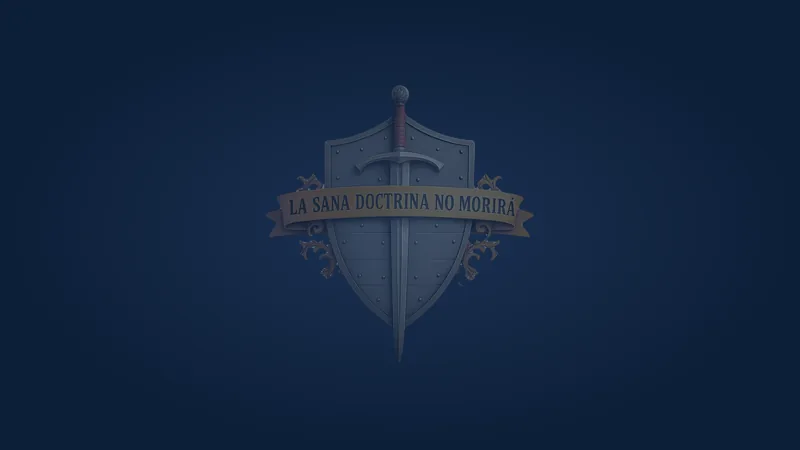
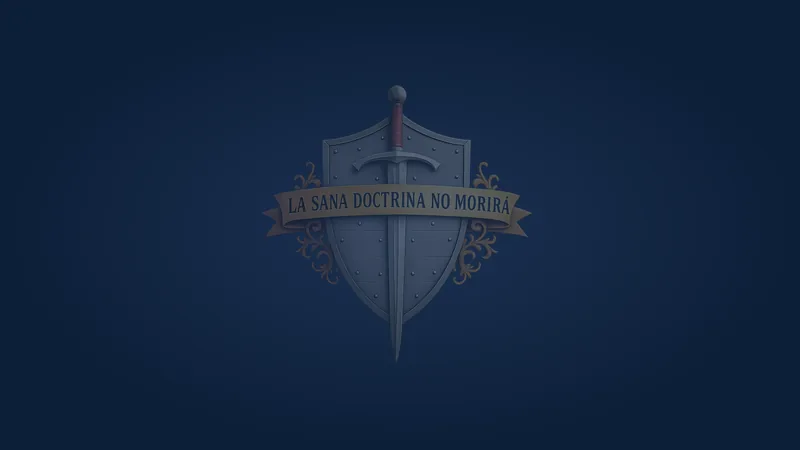
Sustituir el logotipo por la versión nueva
El archivo subido a la raíz del repositorio como "la sana doctrina no
morira 1.png" pasa a ser assets/img/logo-original.png y de él se
regeneran las cinco medidas derivadas.

Comprobado antes de instalarlo: el PNG es RGBA con alfa de 0 a 255 y el
fondo es realmente transparente; el 30 % de píxeles opacos corresponde al
propio escudo, no a un fondo recortado.

- logo.webp (124 KB) y logo.png para la portada, 674 x 680
- sello.webp y sello.png para el encabezado, 159 x 160
- favicon.png de 64 x 64, recorte cuadrado centrado en el escudo
- poster-video.webp/jpg regenerado con el emblema nuevo
- Las medidas declaradas en el HTML se ajustan a la nueva proporción y la
  invalidación de caché sube a ?v=3

Verificado: se usa logo.webp en ambos temas, desvío del eje de 0,0 px
respecto al H1, esquinas del sello transparentes sobre crema y sobre azul
marino, el hero sigue cabiendo sobre el pliegue en 1440x900 y 390x844, y
no hay errores ni desbordamiento en las diez páginas.

diff --git a/pastores.html b/pastores.html
@@ -22,9 +22,9 @@
 <meta name="twitter:description" content="Pastores defensores de la sana doctrina: siervos de Dios que se levantaron como firmes defensores de la verdad inmutable del Evangelio.">
 <meta name="twitter:image" content="https://ivanngarcia81.github.io/La-sana-doctrina-no-morir-/assets/img/logo.png">
 
-<link rel="stylesheet" href="assets/css/estilo.css?v=2">
-<link rel="icon" href="assets/img/favicon.png?v=2" type="image/png">
-<link rel="apple-touch-icon" href="assets/img/sello.png?v=2">
+<link rel="stylesheet" href="assets/css/estilo.css?v=3">
+<link rel="icon" href="assets/img/favicon.png?v=3" type="image/png">
+<link rel="apple-touch-icon" href="assets/img/sello.png?v=3">
 </head>
 <body>
 <a class="saltar" href="#contenido">Saltar al contenido</a>
@@ -33,8 +33,8 @@
   <div class="contenedor encabezado__fila">
     <a class="marca" href="index.html">
       <picture class="marca__sello">
-        <source srcset="assets/img/sello.webp?v=2" type="image/webp">
-        <img src="assets/img/sello.png?v=2" alt="" width="154" height="160">
+        <source srcset="assets/img/sello.webp?v=3" type="image/webp">
+        <img src="assets/img/sello.png?v=3" alt="" width="159" height="160">
       </picture>
       <span class="marca__texto">
         <span class="marca__titulo">La Sana Doctrina</span>
@@ -140,8 +140,8 @@
         <figure class="video">
           <div class="video__marco">
             <picture>
-              <source srcset="assets/img/poster-video.webp?v=2" type="image/webp">
-              <img class="video__poster" src="assets/img/poster-video.jpg?v=2" alt=""
+              <source srcset="assets/img/poster-video.webp?v=3" type="image/webp">
+              <img class="video__poster" src="assets/img/poster-video.jpg?v=3" alt=""
                    width="800" height="450" loading="lazy" decoding="async">
             </picture>
             <span class="video__play" aria-hidden="true"></span>
@@ -151,8 +151,8 @@
         <figure class="video">
           <div class="video__marco">
             <picture>
-              <source srcset="assets/img/poster-video.webp?v=2" type="image/webp">
-              <img class="video__poster" src="assets/img/poster-video.jpg?v=2" alt=""
+              <source srcset="assets/img/poster-video.webp?v=3" type="image/webp">
+              <img class="video__poster" src="assets/img/poster-video.jpg?v=3" alt=""
                    width="800" height="450" loading="lazy" decoding="async">
             </picture>
             <span class="video__play" aria-hidden="true"></span>
@@ -162,8 +162,8 @@
         <figure class="video">
           <div class="video__marco">
             <picture>
-              <source srcset="assets/img/poster-video.webp?v=2" type="image/webp">
-              <img class="video__poster" src="assets/img/poster-video.jpg?v=2" alt=""
+              <source srcset="assets/img/poster-video.webp?v=3" type="image/webp">
+              <img class="video__poster" src="assets/img/poster-video.jpg?v=3" alt=""
                    width="800" height="450" loading="lazy" decoding="async">
             </picture>
             <span class="video__play" aria-hidden="true"></span>
@@ -173,8 +173,8 @@
         <figure class="video">
           <div class="video__marco">
             <picture>
-              <source srcset="assets/img/poster-video.webp?v=2" type="image/webp">
-              <img class="video__poster" src="assets/img/poster-video.jpg?v=2" alt=""
+              <source srcset="assets/img/poster-video.webp?v=3" type="image/webp">
+              <img class="video__poster" src="assets/img/poster-video.jpg?v=3" alt=""
                    width="800" height="450" loading="lazy" decoding="async">
             </picture>
             <span class="video__play" aria-hidden="true"></span>
@@ -184,8 +184,8 @@
         <figure class="video">
           <div class="video__marco">
             <picture>
-              <source srcset="assets/img/poster-video.webp?v=2" type="image/webp">
-              <img class="video__poster" src="assets/img/poster-video.jpg?v=2" alt=""
+              <source srcset="assets/img/poster-video.webp?v=3" type="image/webp">
+              <img class="video__poster" src="assets/img/poster-video.jpg?v=3" alt=""
                    width="800" height="450" loading="lazy" decoding="async">
             </picture>
             <span class="video__play" aria-hidden="true"></span>
@@ -248,6 +248,6 @@
   </div>
 </footer>
 
-<script src="assets/js/main.js?v=2"></script>
+<script src="assets/js/main.js?v=3"></script>
 </body>
 </html>

diff --git a/index.html b/index.html
@@ -22,9 +22,9 @@
 <meta name="twitter:description" content="Un llamado a permanecer firmes en la verdad: proyecto que une a las iglesias conservadoras comprometidas con la verdad bíblica frente a la apostasía.">
 <meta name="twitter:image" content="https://ivanngarcia81.github.io/La-sana-doctrina-no-morir-/assets/img/logo.png">
 
-<link rel="stylesheet" href="assets/css/estilo.css?v=2">
-<link rel="icon" href="assets/img/favicon.png?v=2" type="image/png">
-<link rel="apple-touch-icon" href="assets/img/sello.png?v=2">
+<link rel="stylesheet" href="assets/css/estilo.css?v=3">
+<link rel="icon" href="assets/img/favicon.png?v=3" type="image/png">
+<link rel="apple-touch-icon" href="assets/img/sello.png?v=3">
 </head>
 <body>
 <a class="saltar" href="#contenido">Saltar al contenido</a>
@@ -33,8 +33,8 @@
   <div class="contenedor encabezado__fila">
     <a class="marca" href="index.html">
       <picture class="marca__sello">
-        <source srcset="assets/img/sello.webp?v=2" type="image/webp">
-        <img src="assets/img/sello.png?v=2" alt="" width="154" height="160">
+        <source srcset="assets/img/sello.webp?v=3" type="image/webp">
+        <img src="assets/img/sello.png?v=3" alt="" width="159" height="160">
       </picture>
       <span class="marca__texto">
         <span class="marca__titulo">La Sana Doctrina</span>
@@ -103,8 +103,8 @@
       <!-- Logotipo oficial. Para cambiarlo basta con reemplazar los archivos
            assets/img/logo.webp y assets/img/logo.png. -->
       <picture class="portada__emblema">
-        <source srcset="assets/img/logo.webp?v=2" type="image/webp">
-        <img src="assets/img/logo.png?v=2" width="654" height="680" fetchpriority="high"
+        <source srcset="assets/img/logo.webp?v=3" type="image/webp">
+        <img src="assets/img/logo.png?v=3" width="674" height="680" fetchpriority="high"
              alt="Emblema: escudo y espada con la cinta «La sana doctrina no morirá»">
       </picture>
       <p class="portada__antetitulo">La Sana Doctrina No Morirá</p>
@@ -267,6 +267,6 @@
   </div>
 </footer>
 
-<script src="assets/js/main.js?v=2"></script>
+<script src="assets/js/main.js?v=3"></script>
 </body>
 </html>

diff --git a/mision.html b/mision.html
@@ -22,9 +22,9 @@
 <meta name="twitter:description" content="Cuatro compromisos que nos definen: unir a las iglesias de sana doctrina, confrontar las falsas enseñanzas, denunciar la levadura doctrinal y afirmar la verdad de las Escrituras.">
 <meta name="twitter:image" content="https://ivanngarcia81.github.io/La-sana-doctrina-no-morir-/assets/img/logo.png">
 
-<link rel="stylesheet" href="assets/css/estilo.css?v=2">
-<link rel="icon" href="assets/img/favicon.png?v=2" type="image/png">
-<link rel="apple-touch-icon" href="assets/img/sello.png?v=2">
+<link rel="stylesheet" href="assets/css/estilo.css?v=3">
+<link rel="icon" href="assets/img/favicon.png?v=3" type="image/png">
+<link rel="apple-touch-icon" href="assets/img/sello.png?v=3">
 </head>
 <body>
 <a class="saltar" href="#contenido">Saltar al contenido</a>
@@ -33,8 +33,8 @@
   <div class="contenedor encabezado__fila">
     <a class="marca" href="index.html">
       <picture class="marca__sello">
-        <source srcset="assets/img/sello.webp?v=2" type="image/webp">
-        <img src="assets/img/sello.png?v=2" alt="" width="154" height="160">
+        <source srcset="assets/img/sello.webp?v=3" type="image/webp">
+        <img src="assets/img/sello.png?v=3" alt="" width="159" height="160">
       </picture>
       <span class="marca__texto">
         <span class="marca__titulo">La Sana Doctrina</span>
@@ -196,6 +196,6 @@
   </div>
 </footer>
 
-<script src="assets/js/main.js?v=2"></script>
+<script src="assets/js/main.js?v=3"></script>
 </body>
 </html>

diff --git a/iglesias.html b/iglesias.html
@@ -22,9 +22,9 @@
 <meta name="twitter:description" content="Iglesias que viven la sana doctrina: viven en santidad, predican la Palabra sin alterarla, disciernen los tiempos y examinan todo a la luz de la Biblia.">
 <meta name="twitter:image" content="https://ivanngarcia81.github.io/La-sana-doctrina-no-morir-/assets/img/logo.png">
 
-<link rel="stylesheet" href="assets/css/estilo.css?v=2">
-<link rel="icon" href="assets/img/favicon.png?v=2" type="image/png">
-<link rel="apple-touch-icon" href="assets/img/sello.png?v=2">
+<link rel="stylesheet" href="assets/css/estilo.css?v=3">
+<link rel="icon" href="assets/img/favicon.png?v=3" type="image/png">
+<link rel="apple-touch-icon" href="assets/img/sello.png?v=3">
 </head>
 <body>
 <a class="saltar" href="#contenido">Saltar al contenido</a>
@@ -33,8 +33,8 @@
   <div class="contenedor encabezado__fila">
     <a class="marca" href="index.html">
       <picture class="marca__sello">
-        <source srcset="assets/img/sello.webp?v=2" type="image/webp">
-        <img src="assets/img/sello.png?v=2" alt="" width="154" height="160">
+        <source srcset="assets/img/sello.webp?v=3" type="image/webp">
+        <img src="assets/img/sello.png?v=3" alt="" width="159" height="160">
       </picture>
       <span class="marca__texto">
         <span class="marca__titulo">La Sana Doctrina</span>
@@ -182,6 +182,6 @@
   </div>
 </footer>
 
-<script src="assets/js/main.js?v=2"></script>
+<script src="assets/js/main.js?v=3"></script>
 </body>
 </html>

diff --git a/remanente.html b/remanente.html
@@ -22,9 +22,9 @@
 <meta name="twitter:description" content="¿Eres parte del remanente? Si tu iglesia defiende la sana doctrina y no transige con el error, únete a este proyecto de unidad y restauración.">
 <meta name="twitter:image" content="https://ivanngarcia81.github.io/La-sana-doctrina-no-morir-/assets/img/logo.png">
 
-<link rel="stylesheet" href="assets/css/estilo.css?v=2">
-<link rel="icon" href="assets/img/favicon.png?v=2" type="image/png">
-<link rel="apple-touch-icon" href="assets/img/sello.png?v=2">
+<link rel="stylesheet" href="assets/css/estilo.css?v=3">
+<link rel="icon" href="assets/img/favicon.png?v=3" type="image/png">
+<link rel="apple-touch-icon" href="assets/img/sello.png?v=3">
 </head>
 <body>
 <a class="saltar" href="#contenido">Saltar al contenido</a>
@@ -33,8 +33,8 @@
   <div class="contenedor encabezado__fila">
     <a class="marca" href="index.html">
       <picture class="marca__sello">
-        <source srcset="assets/img/sello.webp?v=2" type="image/webp">
-        <img src="assets/img/sello.png?v=2" alt="" width="154" height="160">
+        <source srcset="assets/img/sello.webp?v=3" type="image/webp">
+        <img src="assets/img/sello.png?v=3" alt="" width="159" height="160">
       </picture>
       <span class="marca__texto">
         <span class="marca__titulo">La Sana Doctrina</span>
@@ -210,6 +210,6 @@
   </div>
 </footer>
 
-<script src="assets/js/main.js?v=2"></script>
+<script src="assets/js/main.js?v=3"></script>
 </body>
 </html>

diff --git a/contacto.html b/contacto.html
@@ -22,9 +22,9 @@
 <meta name="twitter:description" content="Contacto: escríbenos para sumar tu iglesia al movimiento, proponer una sede para el próximo congreso o hacer una consulta.">
 <meta name="twitter:image" content="https://ivanngarcia81.github.io/La-sana-doctrina-no-morir-/assets/img/logo.png">
 
-<link rel="stylesheet" href="assets/css/estilo.css?v=2">
-<link rel="icon" href="assets/img/favicon.png?v=2" type="image/png">
-<link rel="apple-touch-icon" href="assets/img/sello.png?v=2">
+<link rel="stylesheet" href="assets/css/estilo.css?v=3">
+<link rel="icon" href="assets/img/favicon.png?v=3" type="image/png">
+<link rel="apple-touch-icon" href="assets/img/sello.png?v=3">
 </head>
 <body>
 <a class="saltar" href="#contenido">Saltar al contenido</a>
@@ -33,8 +33,8 @@
   <div class="contenedor encabezado__fila">
     <a class="marca" href="index.html">
       <picture class="marca__sello">
-        <source srcset="assets/img/sello.webp?v=2" type="image/webp">
-        <img src="assets/img/sello.png?v=2" alt="" width="154" height="160">
+        <source srcset="assets/img/sello.webp?v=3" type="image/webp">
+        <img src="assets/img/sello.png?v=3" alt="" width="159" height="160">
       </picture>
       <span class="marca__texto">
         <span class="marca__titulo">La Sana Doctrina</span>
@@ -236,6 +236,6 @@
   </div>
 </footer>
 
-<script src="assets/js/main.js?v=2"></script>
+<script src="assets/js/main.js?v=3"></script>
 </body>
 </html>

diff --git a/congreso.html b/congreso.html
@@ -22,9 +22,9 @@
 <meta name="twitter:description" content="El congreso «La Sana Doctrina No Morirá» se celebra una vez al año y cada edición se realiza en una ciudad diferente.">
 <meta name="twitter:image" content="https://ivanngarcia81.github.io/La-sana-doctrina-no-morir-/assets/img/logo.png">
 
-<link rel="stylesheet" href="assets/css/estilo.css?v=2">
-<link rel="icon" href="assets/img/favicon.png?v=2" type="image/png">
-<link rel="apple-touch-icon" href="assets/img/sello.png?v=2">
+<link rel="stylesheet" href="assets/css/estilo.css?v=3">
+<link rel="icon" href="assets/img/favicon.png?v=3" type="image/png">
+<link rel="apple-touch-icon" href="assets/img/sello.png?v=3">
 </head>
 <body>
 <a class="saltar" href="#contenido">Saltar al contenido</a>
@@ -33,8 +33,8 @@
   <div class="contenedor encabezado__fila">
     <a class="marca" href="index.html">
       <picture class="marca__sello">
-        <source srcset="assets/img/sello.webp?v=2" type="image/webp">
-        <img src="assets/img/sello.png?v=2" alt="" width="154" height="160">
+        <source srcset="assets/img/sello.webp?v=3" type="image/webp">
+        <img src="assets/img/sello.png?v=3" alt="" width="159" height="160">
       </picture>
       <span class="marca__texto">
         <span class="marca__titulo">La Sana Doctrina</span>
@@ -243,6 +243,6 @@
   </div>
 </footer>
 
-<script src="assets/js/main.js?v=2"></script>
+<script src="assets/js/main.js?v=3"></script>
 </body>
 </html>

diff --git a/que-es.html b/que-es.html
@@ -22,9 +22,9 @@
 <meta name="twitter:description" content="Qué es «La Sana Doctrina No Morirá»: un clamor espiritual para volver al fundamento de Cristo y su doctrina pura.">
 <meta name="twitter:image" content="https://ivanngarcia81.github.io/La-sana-doctrina-no-morir-/assets/img/logo.png">
 
-<link rel="stylesheet" href="assets/css/estilo.css?v=2">
-<link rel="icon" href="assets/img/favicon.png?v=2" type="image/png">
-<link rel="apple-touch-icon" href="assets/img/sello.png?v=2">
+<link rel="stylesheet" href="assets/css/estilo.css?v=3">
+<link rel="icon" href="assets/img/favicon.png?v=3" type="image/png">
+<link rel="apple-touch-icon" href="assets/img/sello.png?v=3">
 </head>
 <body>
 <a class="saltar" href="#contenido">Saltar al contenido</a>
@@ -33,8 +33,8 @@
   <div class="contenedor encabezado__fila">
     <a class="marca" href="index.html">
       <picture class="marca__sello">
-        <source srcset="assets/img/sello.webp?v=2" type="image/webp">
-        <img src="assets/img/sello.png?v=2" alt="" width="154" height="160">
+        <source srcset="assets/img/sello.webp?v=3" type="image/webp">
+        <img src="assets/img/sello.png?v=3" alt="" width="159" height="160">
       </picture>
       <span class="marca__texto">
         <span class="marca__titulo">La Sana Doctrina</span>
@@ -202,6 +202,6 @@
   </div>
 </footer>
 
-<script src="assets/js/main.js?v=2"></script>
+<script src="assets/js/main.js?v=3"></script>
 </body>
 </html>

diff --git a/apostasia.html b/apostasia.html
@@ -22,9 +22,9 @@
 <meta name="twitter:description" content="Enfrentando la apostasía: vivimos tiempos que el apóstol Pablo anunció con claridad en 2 Timoteo 4:3.">
 <meta name="twitter:image" content="https://ivanngarcia81.github.io/La-sana-doctrina-no-morir-/assets/img/logo.png">
 
-<link rel="stylesheet" href="assets/css/estilo.css?v=2">
-<link rel="icon" href="assets/img/favicon.png?v=2" type="image/png">
-<link rel="apple-touch-icon" href="assets/img/sello.png?v=2">
+<link rel="stylesheet" href="assets/css/estilo.css?v=3">
+<link rel="icon" href="assets/img/favicon.png?v=3" type="image/png">
+<link rel="apple-touch-icon" href="assets/img/sello.png?v=3">
 </head>
 <body>
 <a class="saltar" href="#contenido">Saltar al contenido</a>
@@ -33,8 +33,8 @@
   <div class="contenedor encabezado__fila">
     <a class="marca" href="index.html">
       <picture class="marca__sello">
-        <source srcset="assets/img/sello.webp?v=2" type="image/webp">
-        <img src="assets/img/sello.png?v=2" alt="" width="154" height="160">
+        <source srcset="assets/img/sello.webp?v=3" type="image/webp">
+        <img src="assets/img/sello.png?v=3" alt="" width="159" height="160">
       </picture>
       <span class="marca__texto">
         <span class="marca__titulo">La Sana Doctrina</span>
@@ -202,6 +202,6 @@
   </div>
 </footer>
 
-<script src="assets/js/main.js?v=2"></script>
+<script src="assets/js/main.js?v=3"></script>
 </body>
 </html>

diff --git a/404.html b/404.html
@@ -23,9 +23,9 @@
 <meta name="twitter:description" content="No encontramos esa página. Vuelve al inicio o ve directamente a cualquier sección del sitio.">
 <meta name="twitter:image" content="https://ivanngarcia81.github.io/La-sana-doctrina-no-morir-/assets/img/logo.png">
 
-<link rel="stylesheet" href="assets/css/estilo.css?v=2">
-<link rel="icon" href="assets/img/favicon.png?v=2" type="image/png">
-<link rel="apple-touch-icon" href="assets/img/sello.png?v=2">
+<link rel="stylesheet" href="assets/css/estilo.css?v=3">
+<link rel="icon" href="assets/img/favicon.png?v=3" type="image/png">
+<link rel="apple-touch-icon" href="assets/img/sello.png?v=3">
 </head>
 <body>
 <a class="saltar" href="#contenido">Saltar al contenido</a>
@@ -34,8 +34,8 @@
   <div class="contenedor encabezado__fila">
     <a class="marca" href="index.html">
       <picture class="marca__sello">
-        <source srcset="assets/img/sello.webp?v=2" type="image/webp">
-        <img src="assets/img/sello.png?v=2" alt="" width="154" height="160">
+        <source srcset="assets/img/sello.webp?v=3" type="image/webp">
+        <img src="assets/img/sello.png?v=3" alt="" width="159" height="160">
       </picture>
       <span class="marca__texto">
         <span class="marca__titulo">La Sana Doctrina</span>
@@ -171,6 +171,6 @@
   </div>
 </footer>
 
-<script src="assets/js/main.js?v=2"></script>
+<script src="assets/js/main.js?v=3"></script>
 </body>
 </html>
